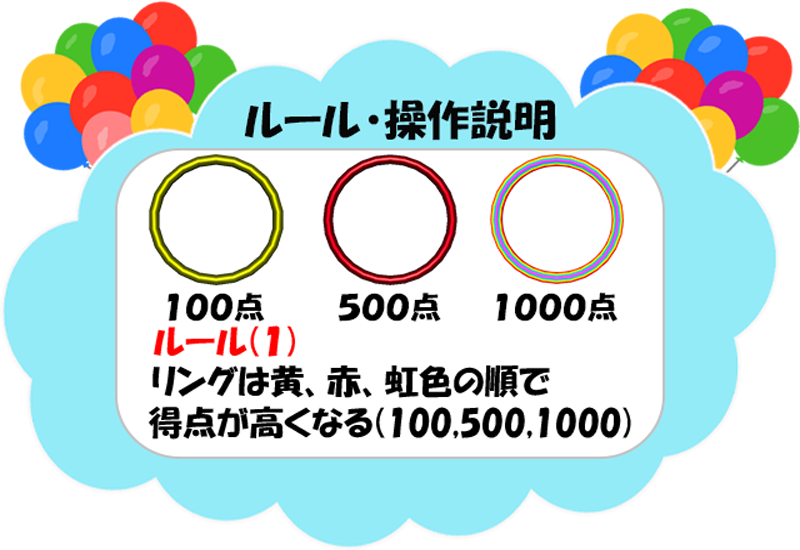
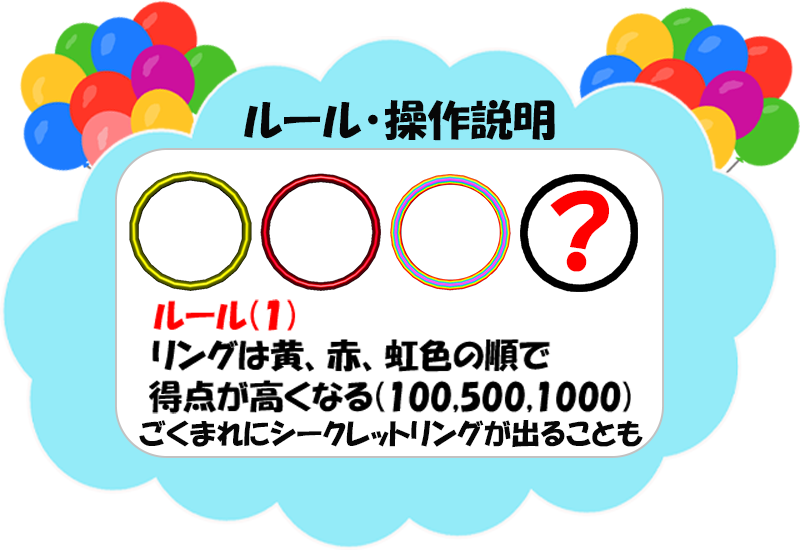
更新

diff --git a/project/Balloon Glide/SourceCode/ring.cpp b/project/Balloon Glide/SourceCode/ring.cpp
@@ -24,7 +24,8 @@ int gold_ring_count;
 int red_ring_count;
 int rainbow_ring_count;
 int secret_ring_count;
-bool secret_ring_hit ; // シークレットリングに当たったかどうかのフラグ
+extern  int boostCount;
+
 
 extern PLAYER player;
 std::vector<RING> rings;
@@ -59,7 +60,7 @@ void ring_init() {
     rainbow_ring_count = 0;
     secret_ring_count = 0;
     ring_generate_count = 0;
-    secret_ring_hit=false;
+    
     rings.clear();
     
 }
@@ -234,7 +235,7 @@ void judge() {
             if (hitCheckRing(&player, &rings[i])) { // 当たり判定
                 switch (rings[i].type) { // 各リングの種類を参照
                 case RING_TYPE::GOLD:
-                    score += secret_ring_hit ? 200 : 100; // シークレットリングがtrueなら200点
+                    score += 100; 
                     gold_ring_count++;
                     music::play(BGM_RING, false);
                     break;
@@ -250,10 +251,10 @@ void judge() {
                     music::setVolume(BGM_RAINBOW, 1.0f);
                     break;
                 case RING_TYPE::SECRET:
-                    secret_ring_hit = true; // フラグを有効化
                     score += 2000; // シークレットリング自体のスコア加算
                     secret_ring_count++;
                     music::play(BGM_SECRET, false); 
+                    boostCount++;
                     break;
                 }
 
